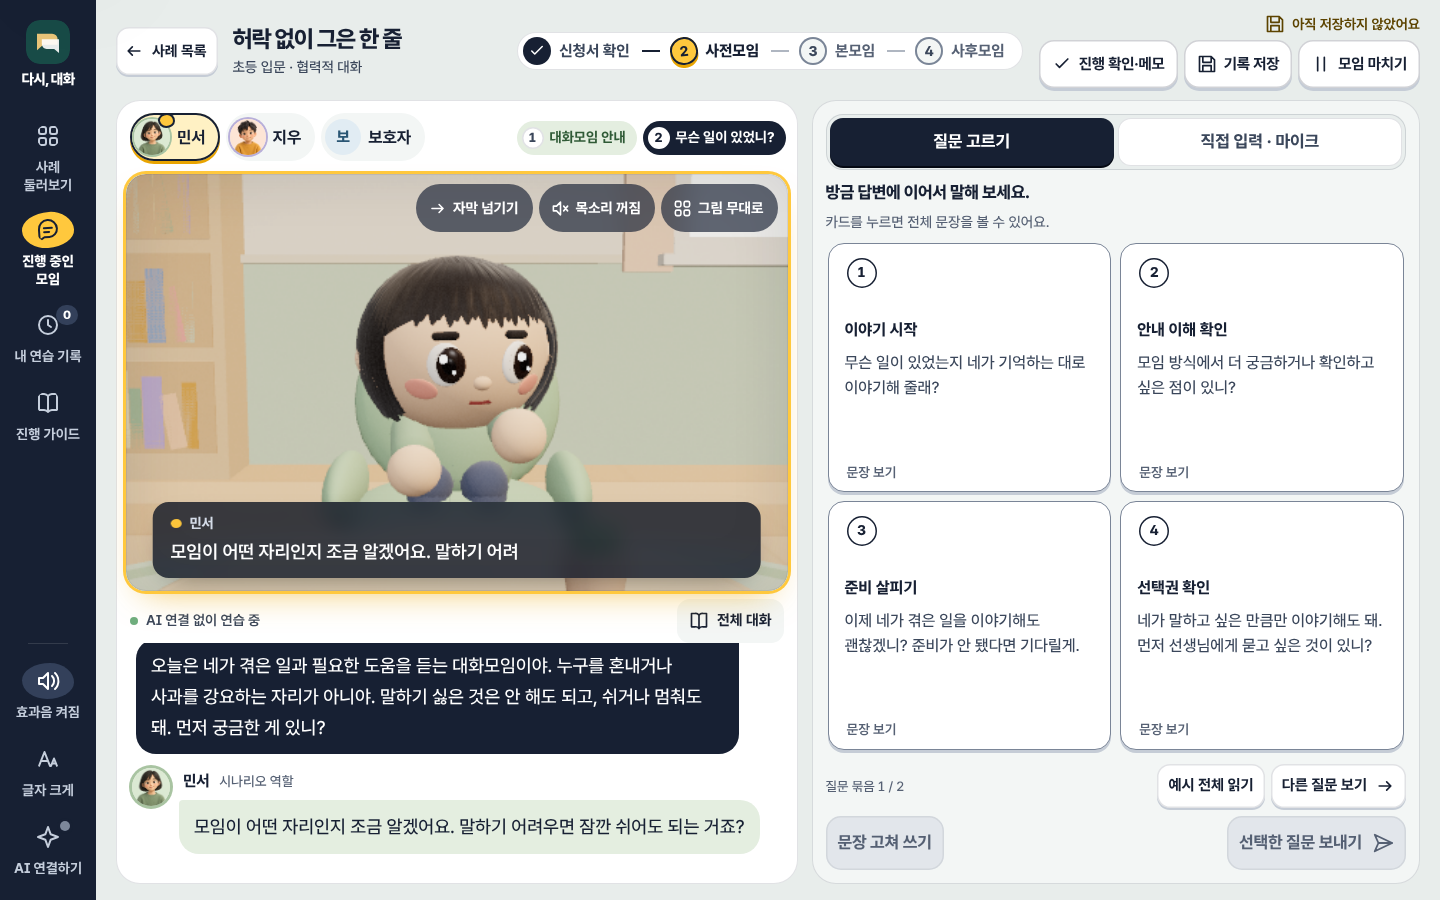
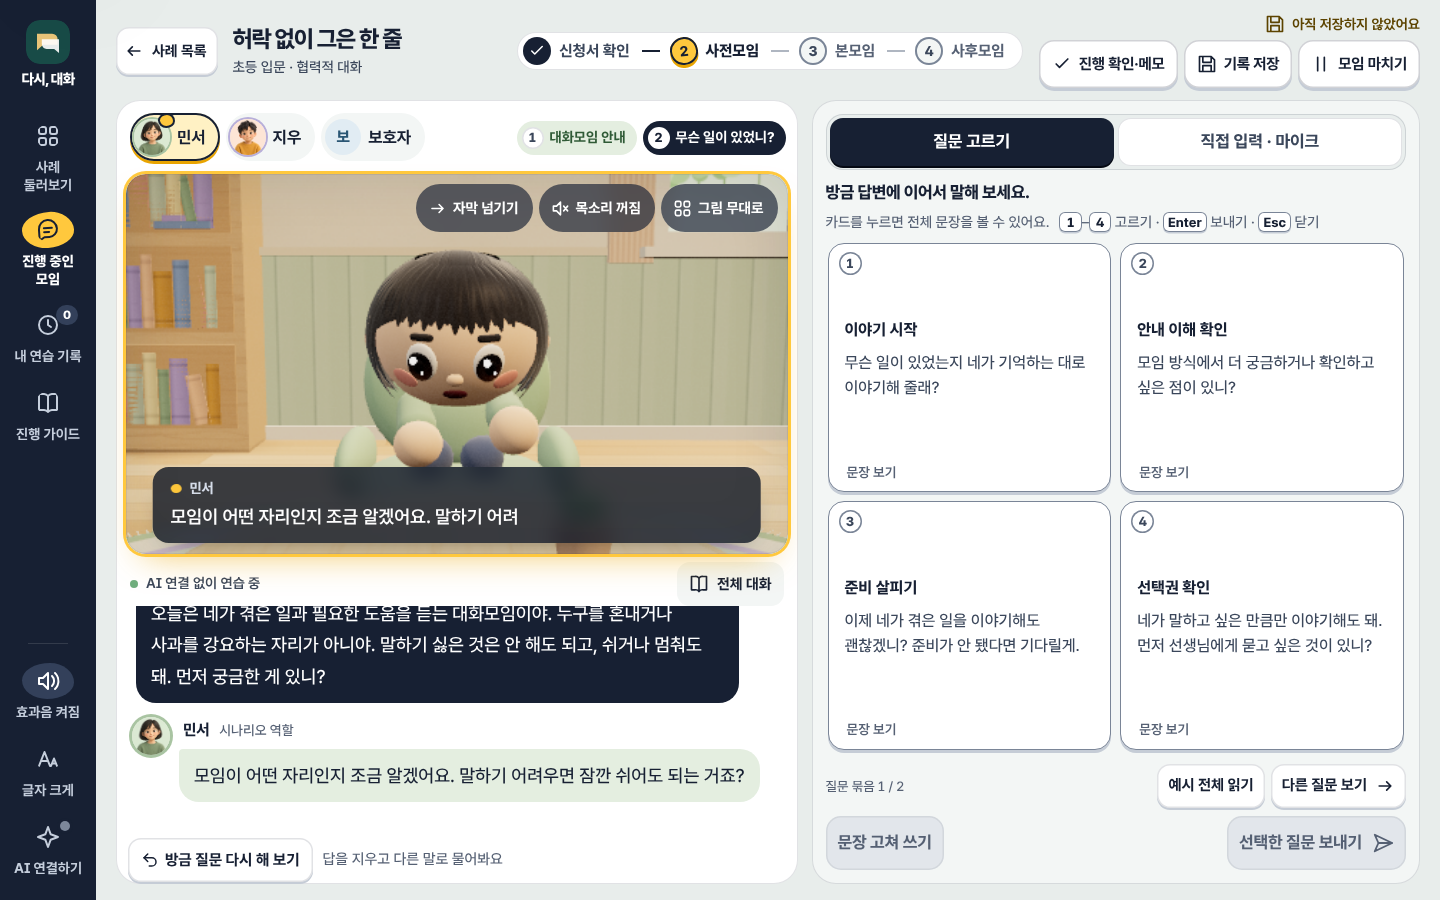
docs: v0.8.0 verification results and new screenshots
Claude-Session: https://claude.ai/code/session_018JbLAfXJCc6pfJksY4qfVm

diff --git a/docs/VERIFICATION.md b/docs/VERIFICATION.md
@@ -253,4 +253,6 @@
   - 실험실 세 장면(사전모임 한 명, 본모임 셋, 첫 화면 대화실)을 바꾸기 전과 후, 그리고 화질을 고정한 가장 높은 단계(`?quality=0`)로 찍어 비교했습니다.
   - 찾아 고친 것: 러그의 띠가 꽉 찬 원판으로 그려짐(각도를 2π 대신 6.283으로 써서 안쪽 원이 거의 안 그려짐), 반투명 러그가 접지 그림자를 덮음(불투명 + 가장자리 자르기로 바꿈), 접지 그림자가 너무 옅고 작음(위에서 내려다본 화소 값으로 확인: 켰을 때 204, 껐을 때 211), 책과 칸막이 앞면이 겹쳐 깜빡임.
   - 속도(1366×768, 가장 낮은 화질): 바꾸기 전 초당 1.8장, 처음 바꾼 뒤 0.9장(느린 기기 검사가 실패)이었고, 화질 단계에 요철·코팅·빛줄기·먼지를 넣은 뒤 1.72장으로 돌아왔습니다. 50ms 타이머가 가장 늦게 온 시간은 1.0초 → 1.1초. 첫 3D 장면까지는 따뜻한 캐시에서 약 5.6초(바꾸기 전 4.8–6.0초). 대화실을 만드는 데 드는 시간(질감 그리기 포함)은 약 130ms입니다.
+- 전체 실행: `stage-browser.mjs` 전체(캐릭터 7종 × 감정 4가지 포함, 17개 항목) 통과. `desktop-room.mjs`(40개 상태), `responsive.mjs`, `browser.mjs`, `v02-browser.mjs`, `intake-browser.mjs`, `followups-browser.mjs`, `sounds-browser.mjs`, `features-browser.mjs` 통과.
+- 문서 사진(`docs/screenshots/`)을 새 대화실로 다시 찍었고, 실험실 최고 화질 장면을 `stage.png`로 더했습니다.
 - 한계: 실제 그래픽 카드·크롬북에서의 속도와 모양은 확인하지 않았습니다. 화면 낭독기로 새 단추와 창을 직접 써 보지는 않았습니다. 실제 프린터로 인쇄하지는 않았고 Chromium의 PDF로만 확인했습니다.
